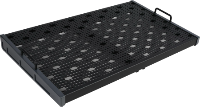
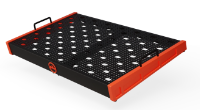
fixup

diff --git a/md5s.js b/md5s.js
@@ -458,8 +458,8 @@ const md5s = {
    "./images/supersnarksn01/sm.webp" : "8ef9227ae2b1db3a83c169f4aac0dd0f",
    "./images/suvma100bk/main.webp" : "359df3387b2bd64657d8712e23e130dc",
    "./images/suvma100bk/sm.webp" : "aea0a19ca79802b332df735949a91240",
-   "./images/templeboardtrio28/main.webp" : "dfe89fa00f605390e7aae8c063fffaf7",
-   "./images/templeboardtrio28/sm.webp" : "8dbe6dabafccbaf171b1a1e8ded603e0",
+   "./images/templeboardtrio28/main.webp" : "7f5a4b10cb86bfc458e42c724f49c072",
+   "./images/templeboardtrio28/sm.webp" : "349b6806206417c45b5de96acb178438",
    "./images/templeboardtrio43/main.webp" : "bc8bae1235f5b71ab858b2ad37a04e99",
    "./images/templeboardtrio43/sm.webp" : "bf40ead8ffc21e4f790c2fb259e6fc40",
    "./images/tenorbanjo/main.webp" : "c02d68bfd0fb8d9a76c67722a9d34c89",
@@ -672,7 +672,7 @@ const md5s = {
    "./manuals/ydp223/YDP223.pdf" : "be913fb5737ab4e6cd092edd536ca95d",
    "./manuals/ypt300/YPT300_1.pdf" : "05b566baeb4e9064ab170a87abddcb1d",
    "./manuals/zeus/Quick Start Guide.pdf" : "57fd8927b9c597aca1753d1c95c9ec68",
-   "./md5s.js" : "4f189ed4",
+   "./md5s.js" : "d3e7f311",
    "./pic/pedalboards/kids.webp" : "d87fd6898244119104c9a9bd8378c76c",
    "./pic/pedalboards/mine.webp" : "f2380ba7cc10e936bb35e4f21fd1640f",
    "./pic/studios/sd.webp" : "6b1bd63d8306c93e05c48261a17edb7d",

diff --git a/index.html b/index.html
@@ -24,7 +24,7 @@
 
     <link rel="stylesheet" type="text/css" href="./dracula-variables.css?594c5652a3d8e902b50e517a343bc202">
     <link rel="stylesheet" type="text/css" href="./style.css?6f4489427bf231253a5499ff866dacbe">
-    <script src="./md5s.js?4f189ed4"></script>
+    <script src="./md5s.js?d3e7f311"></script>
     <script src="./conf.js?b58ade49025ef029e2610d643a139000"></script>
     <script src="./data.js?7d424163d250218cf37e3de053efafa2"></script>
     <script src="./code.js?dfc6817f8131ff5afc5a944f035fc374"></script>